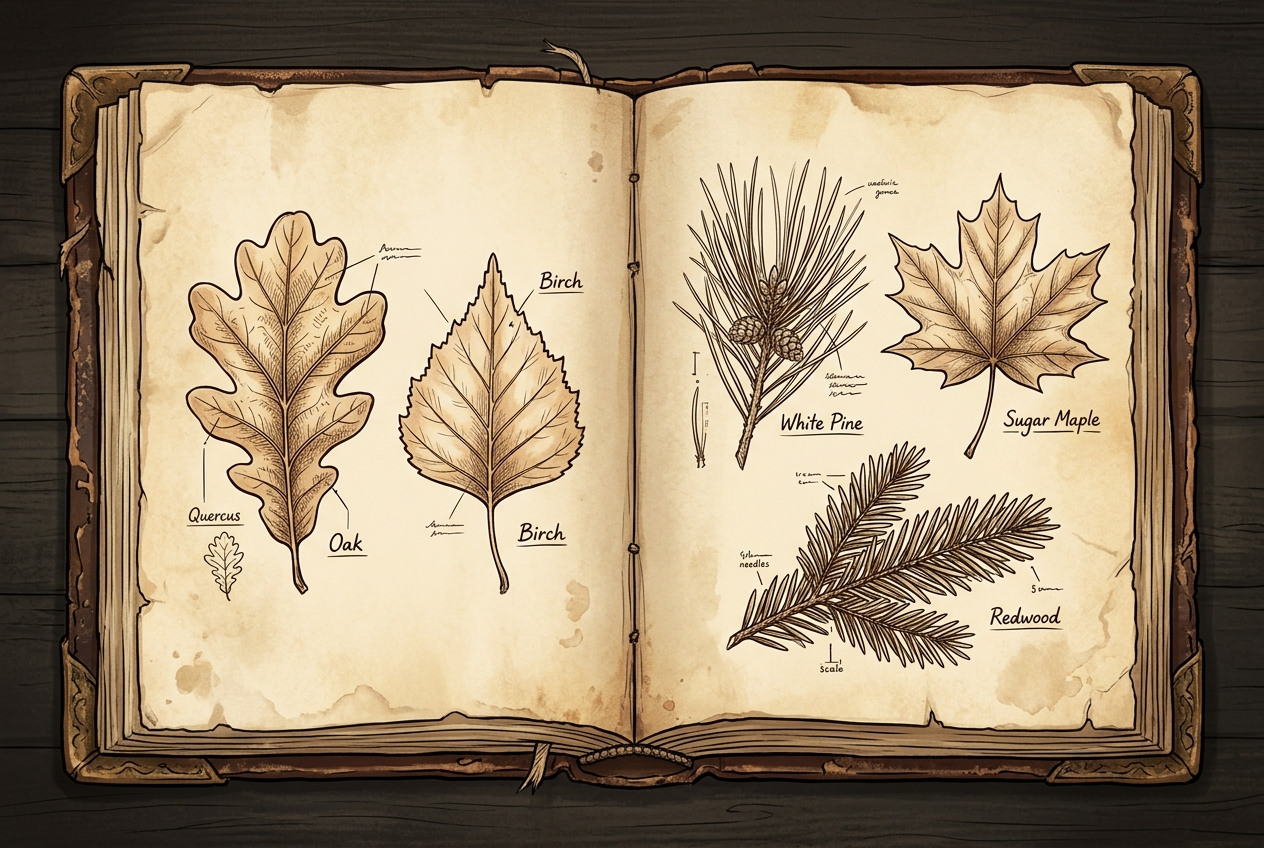
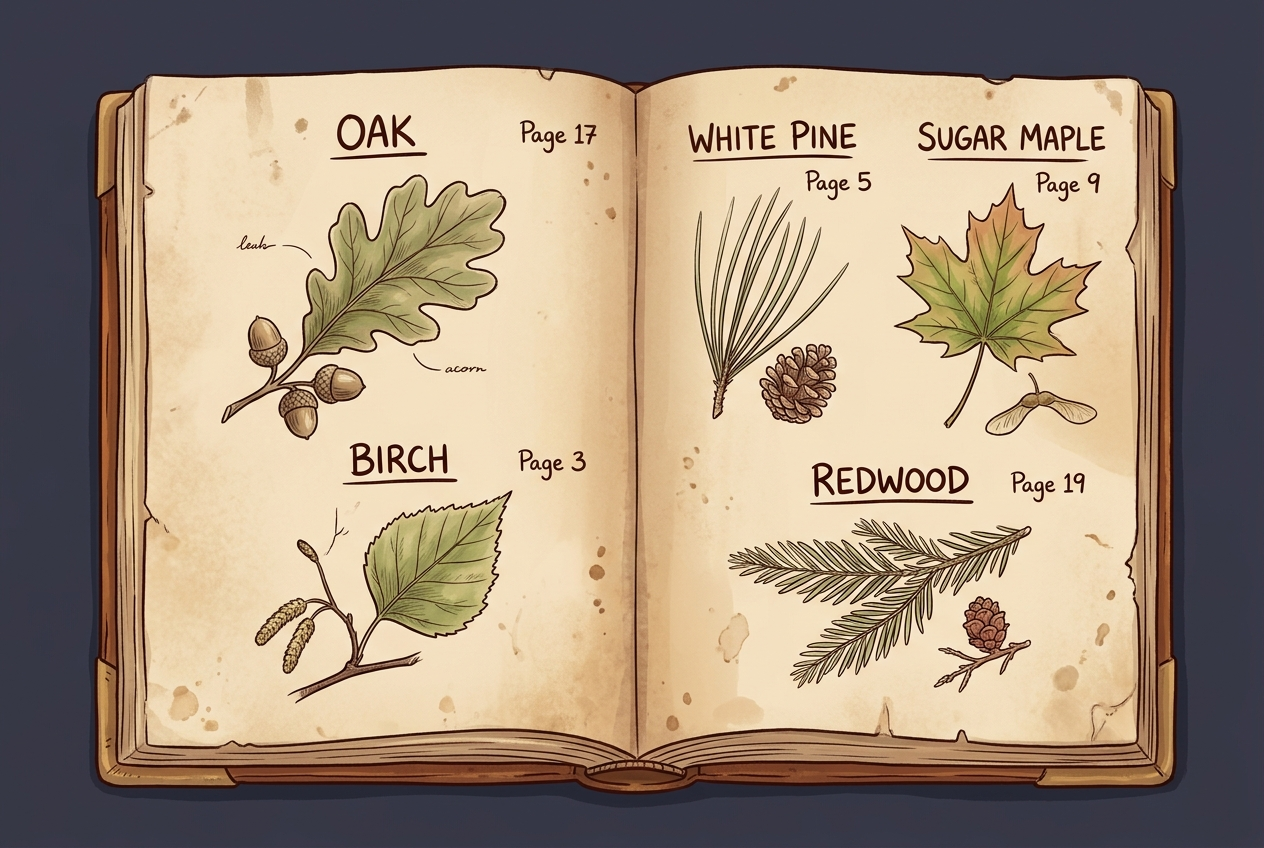
Regenerate trees book image with baked-in page numbers and remove Phaser overlays

diff --git a/src/main.js b/src/main.js
@@ -783,29 +783,12 @@ class GameScene extends Phaser.Scene {
     });
   }
 
-  // --- ADDITIONAL ZOOM PUZZLES: BOOK, WINDOW, BRANCHES, SAFE ---
   inspectTreesBook() {
     this.enterZoomView('trees_book', () => {
       // Draw high-fidelity open book image
       const bookImage = this.add.image(470, 210, 'open_book')
         .setDisplaySize(540, 360);
       this.zoomContainer.add(bookImage);
-
-      // Overlay page numbers next to visual tree labels on the page mockup
-      const numberStyle = {
-        fontFamily: 'Outfit',
-        fontSize: '13px',
-        fill: '#5c4d3c',
-        fontWeight: 'bold'
-      };
-
-      const oakPage = this.add.text(260, 310, 'Page 17', numberStyle).setOrigin(0.5);
-      const birchPage = this.add.text(390, 310, 'Page 23', numberStyle).setOrigin(0.5);
-      const pinePage = this.add.text(560, 240, 'Page 5', numberStyle).setOrigin(0.5);
-      const maplePage = this.add.text(680, 240, 'Page 9', numberStyle).setOrigin(0.5);
-      const redwoodPage = this.add.text(630, 350, 'Page 48', numberStyle).setOrigin(0.5);
-
-      this.zoomContainer.add([oakPage, birchPage, pinePage, maplePage, redwoodPage]);
     });
   }
 